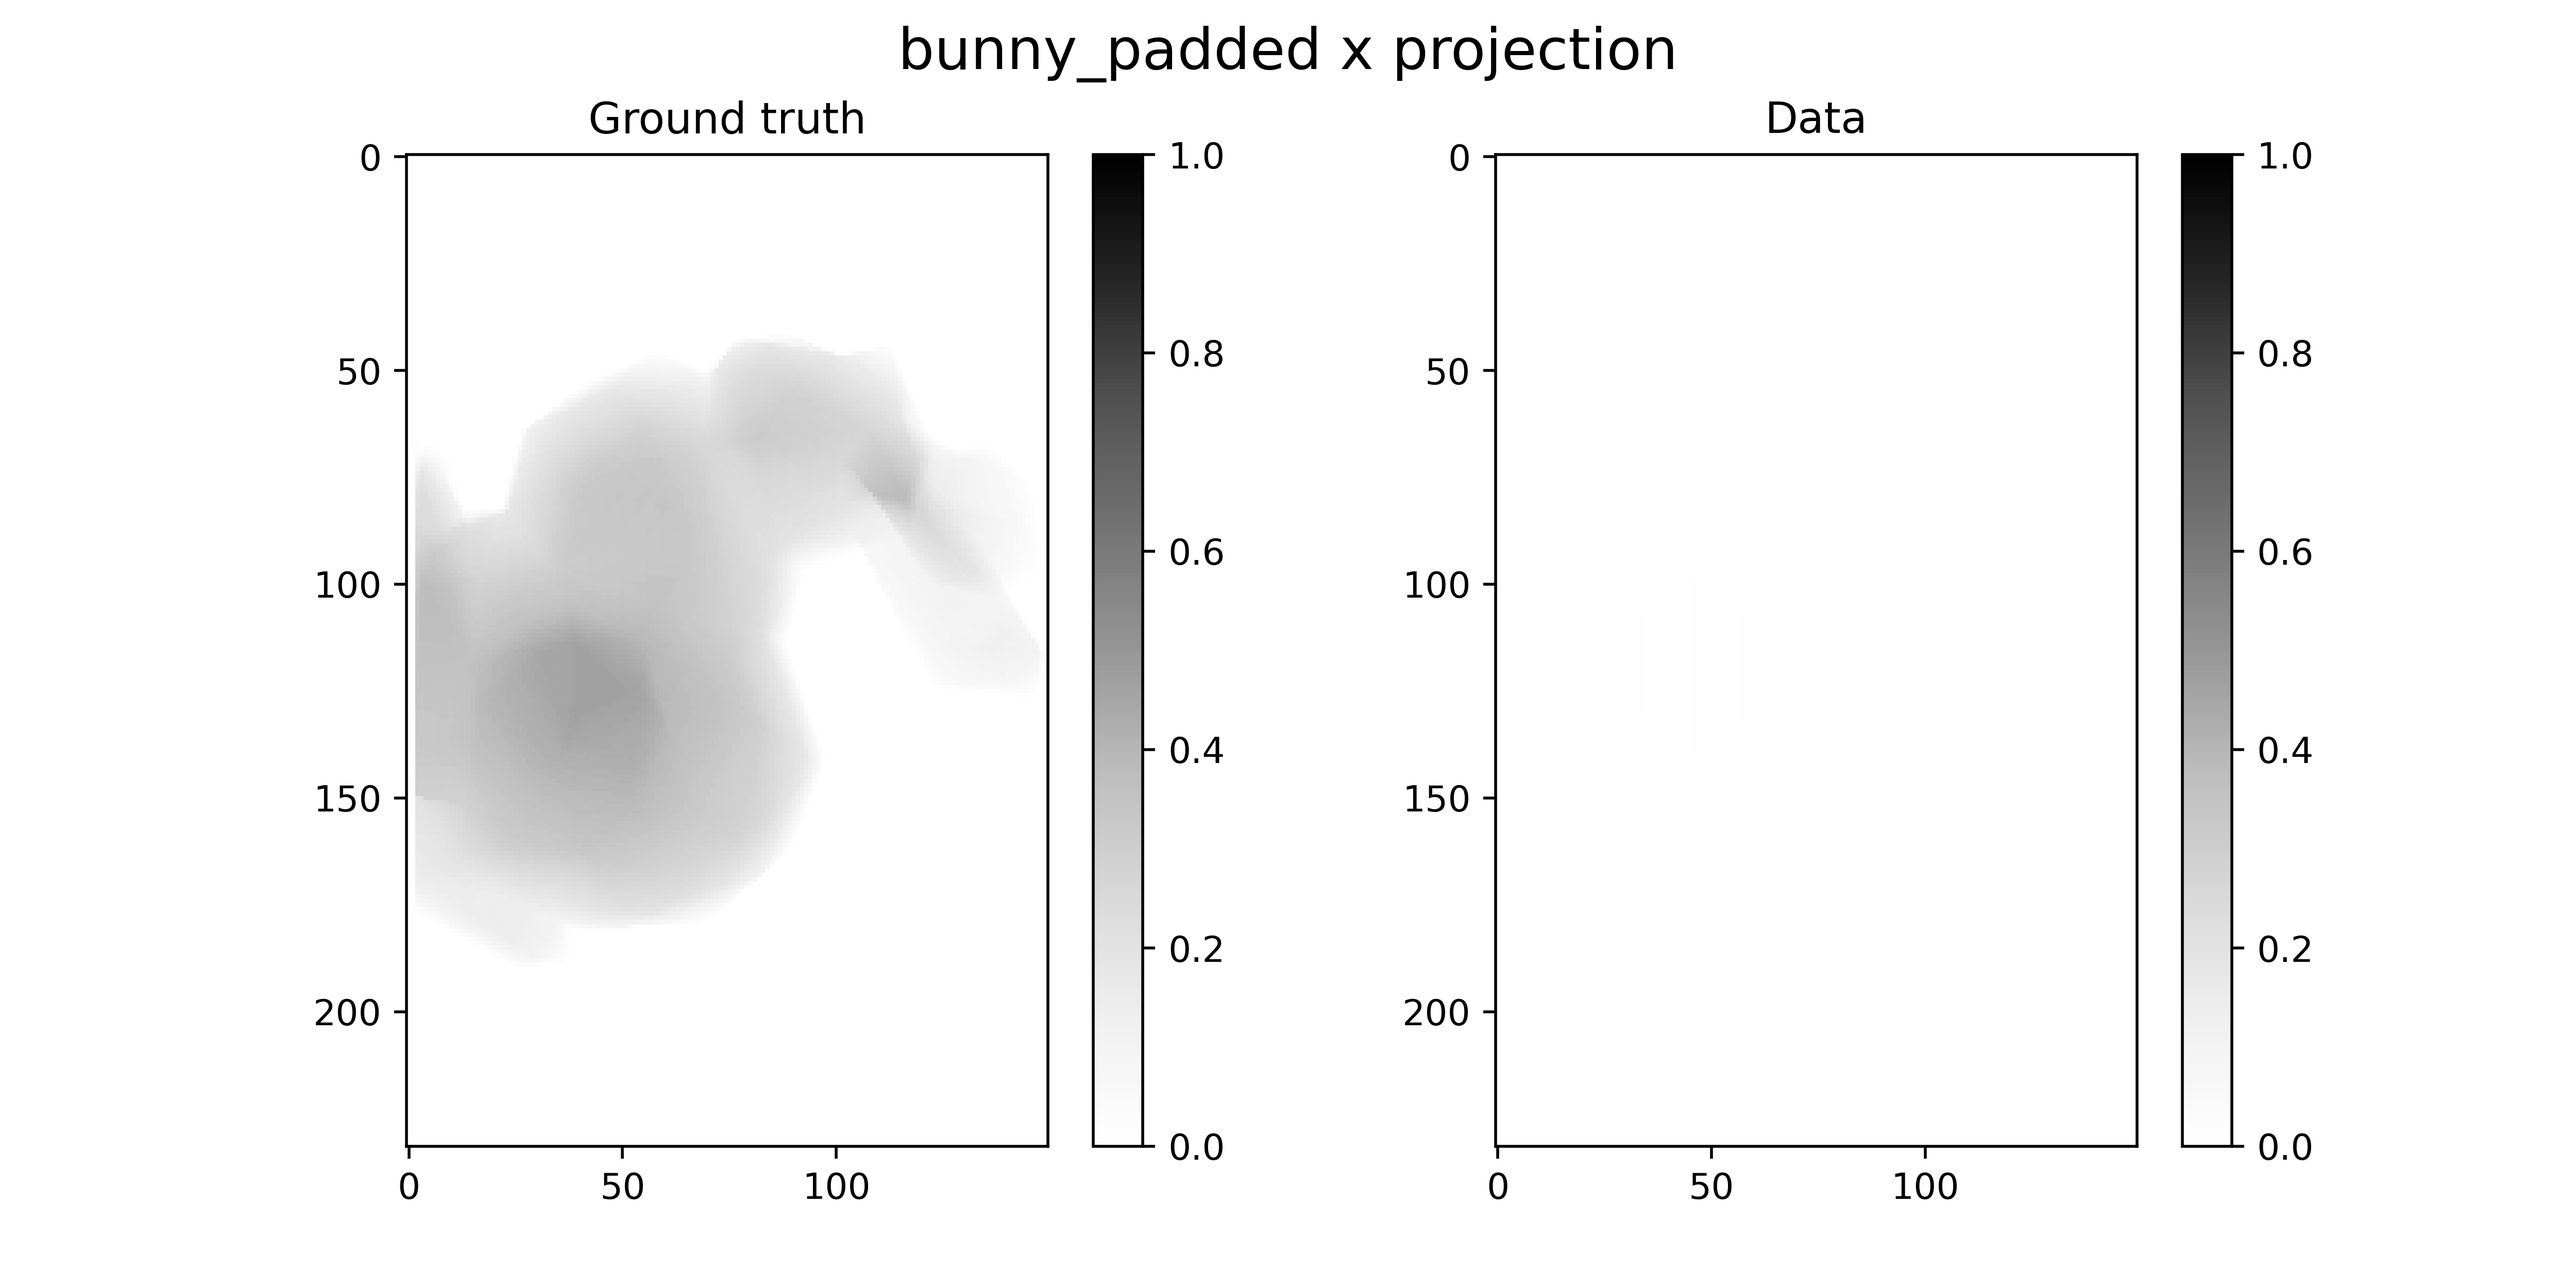
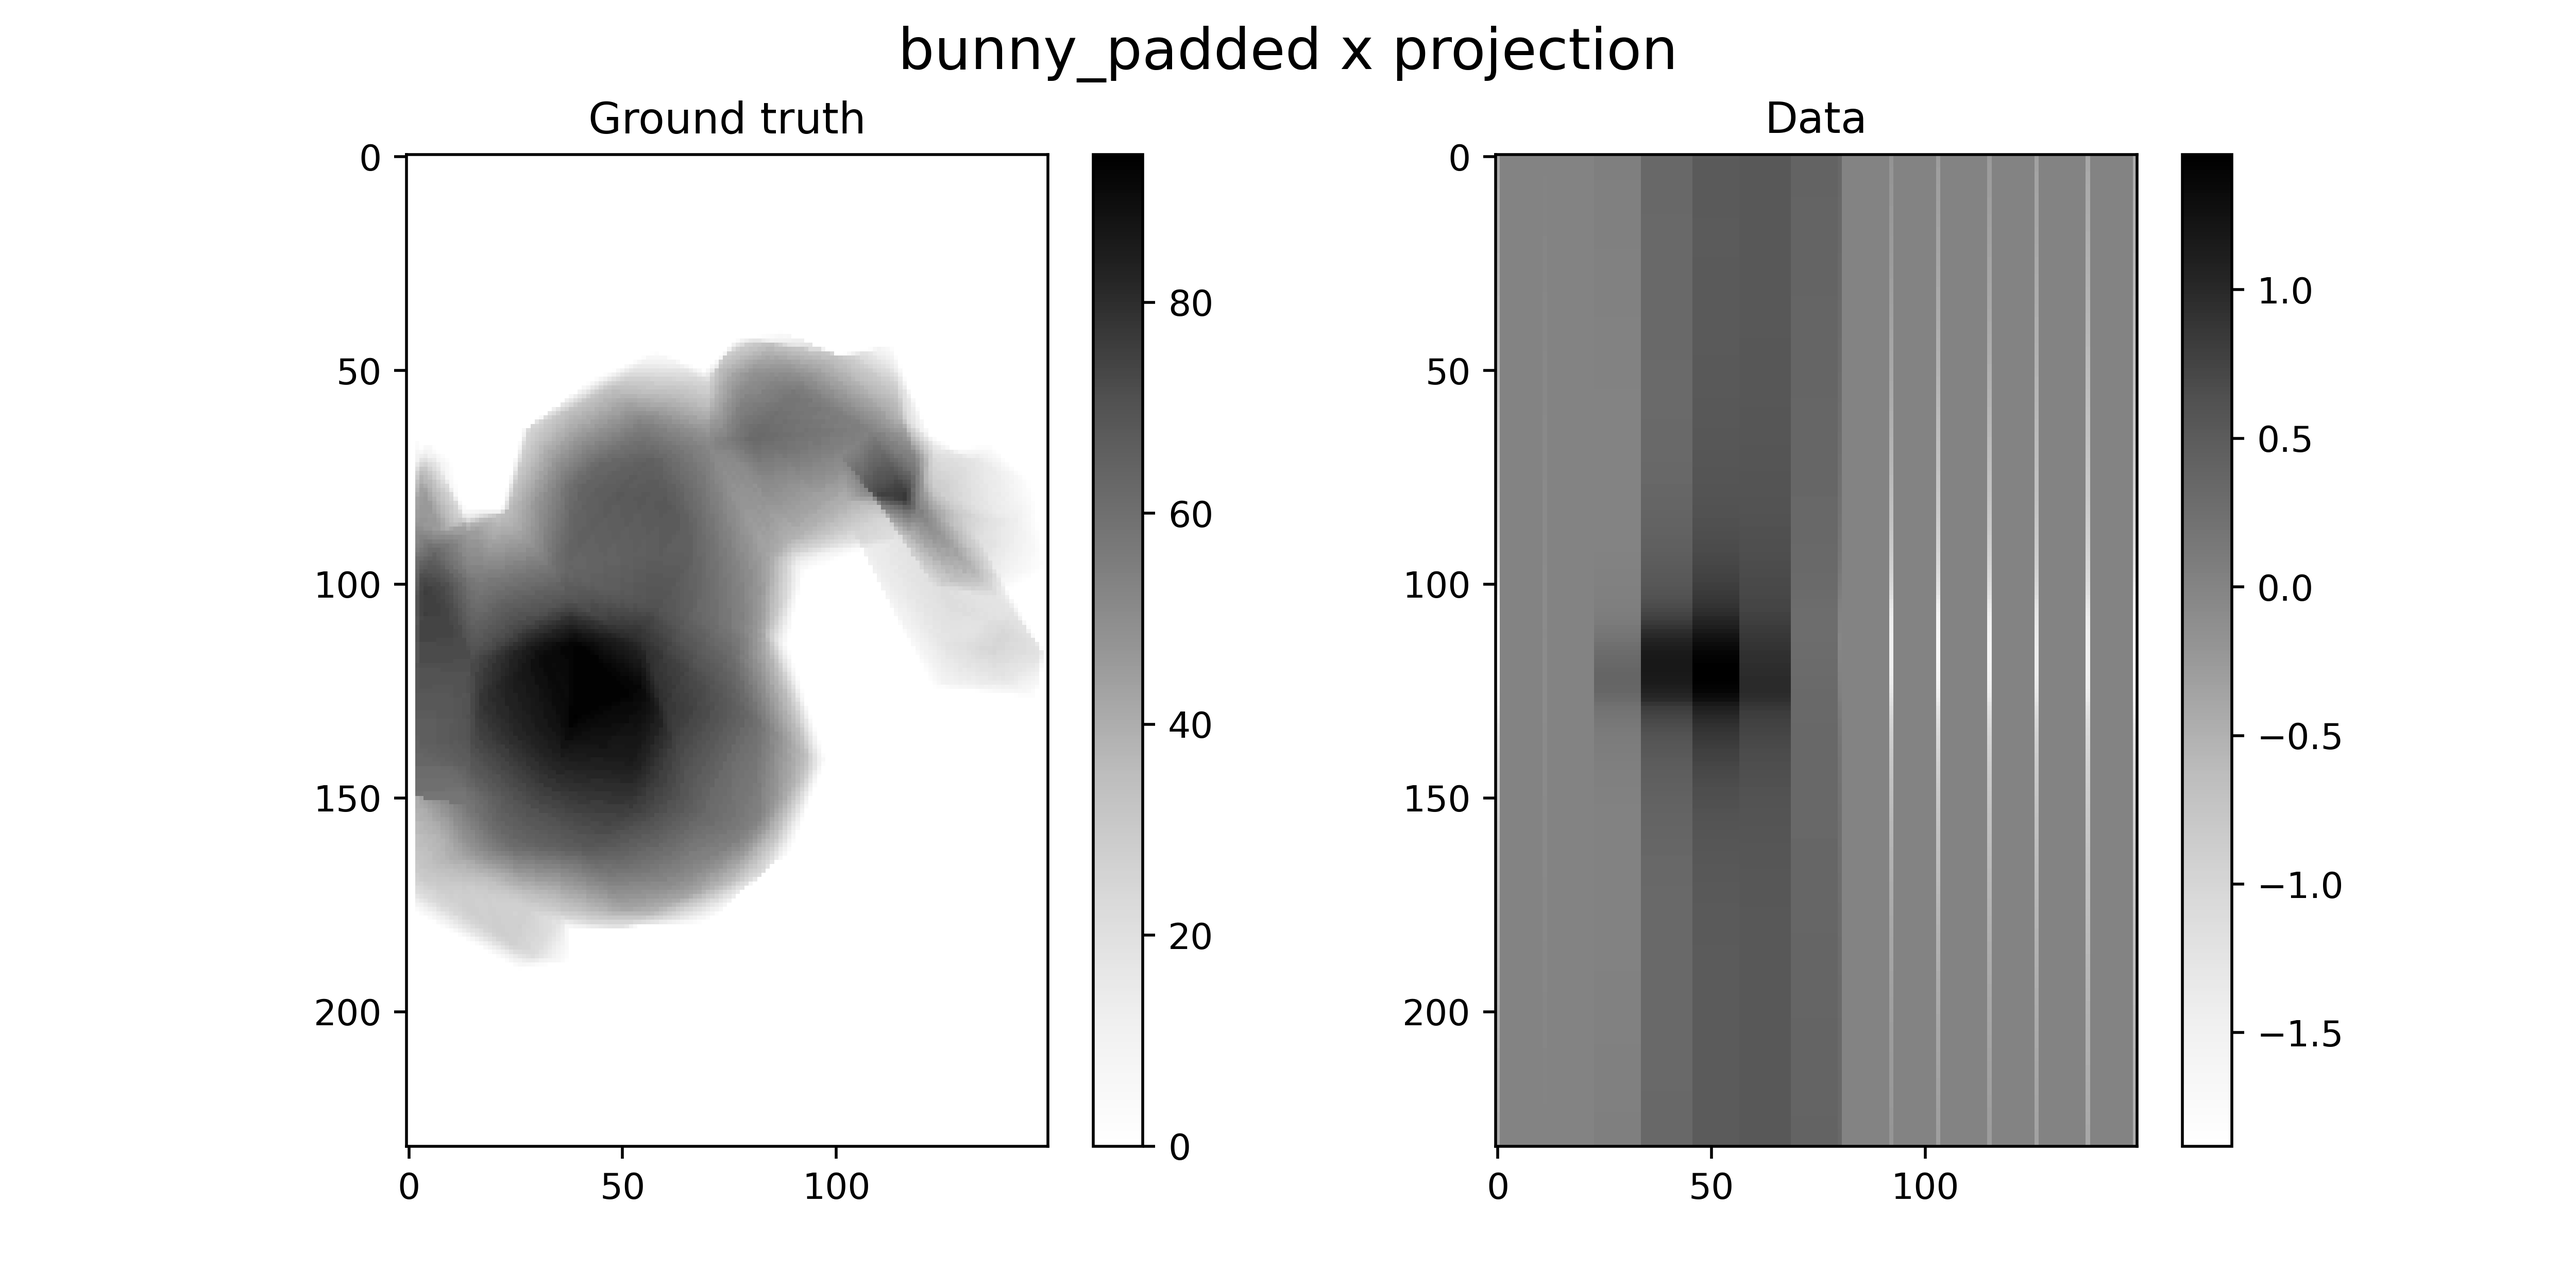
[xray] new viz

diff --git a/src/pyxu/experimental/xray/3dtests/bhatt_method/bhatt_3d.py b/src/pyxu/experimental/xray/3dtests/bhatt_method/bhatt_3d.py
@@ -21,7 +21,7 @@ dh = 0.9
 dl = 0.5
 num_n = 1500  # 3000
 bin_size = 1
-slm_pixels_height = 100  # 100
+slm_pixels_height = 50  # 100
 slm_pixels_width = 100  # 200
 lambda_ = 4
 diff_lip = 0.05
@@ -69,10 +69,10 @@ class ReconstructionTechnique:
 
     def run(self, stop_crit=RelError(eps=1e-3) | MaxIter(200), post_process_optres=None, mu1=10, mu2=10):
         alpha = self.__run_epoch(self.initialisation, mu1=mu1, mu2=mu2, stop_crit=RelError(eps=1e-3) | MaxIter(50))
-        # alpha = self.__run_epoch(alpha, mu1=mu1 / 2, mu2=mu2, stop_crit=RelError(eps=1e-3) | MaxIter(50))
-        # alpha = self.__run_epoch(alpha, mu1=mu1 / 2, mu2=mu2 / 2, stop_crit=RelError(eps=1e-3) | MaxIter(50))
-        # alpha = self.__run_epoch(alpha, mu1=mu1 / 4, mu2=mu2 / 2, stop_crit=RelError(eps=1e-5) | MaxIter(50))
-        # alpha = self.__run_epoch(alpha, mu1=mu1 / 4, mu2=mu2 / 4, stop_crit=RelError(eps=1e-5) | MaxIter(50))
+        alpha = self.__run_epoch(alpha, mu1=mu1 / 2, mu2=mu2, stop_crit=RelError(eps=1e-3) | MaxIter(50))
+        alpha = self.__run_epoch(alpha, mu1=mu1 / 2, mu2=mu2 / 2, stop_crit=RelError(eps=1e-3) | MaxIter(50))
+        alpha = self.__run_epoch(alpha, mu1=mu1 / 4, mu2=mu2 / 2, stop_crit=RelError(eps=1e-5) | MaxIter(50))
+        alpha = self.__run_epoch(alpha, mu1=mu1 / 4, mu2=mu2 / 4, stop_crit=RelError(eps=1e-5) | MaxIter(50))
         # alpha = self.__run_epoch(alpha, mu1=mu1 / 8, mu2=mu2 / 4, stop_crit=RelError(eps=5e-6) | MaxIter(50))
         # alpha = self.__run_epoch(alpha, mu1=mu1 / 8, mu2=mu2 / 8, stop_crit=RelError(eps=5e-6) | MaxIter(50))
 
@@ -130,6 +130,7 @@ print("Loading ground truth...")
 ground_truth = bunny_padded()
 chosen_gt = "bunny_padded"
 refraction = False
+optimize_save = False
 
 cylinder_inner_radius = 15.5e-3
 cylinder_outer_radius = 16.5e-3
@@ -212,6 +213,14 @@ bhatt = ReconstructionTechnique(
 )
 
 
+def threshold_processing_2_colors(image):
+    thresh = (dh + dl) / 2
+    res = image.copy()
+    res[image < thresh] = 0
+    res[image >= thresh] = 1
+    return res
+
+
 def threshold_processing_3_colors(image):
     res = image.copy()
     res[image < dl] = 0
@@ -268,35 +277,76 @@ def show_projection_against_gt(ax, data, ground_truth, main_title, file_title, p
     plt.close(fig)
 
 
+def zero_order_interp(img: np.ndarray, epsilon=1e-6):
+    output = img.copy()
+    nonzero_planes = np.argwhere(img.sum(axis=(0, 1)) > epsilon).flatten()
+    nonzero_length = len(nonzero_planes) - 1
+    idx = 0
+    while idx < nonzero_length:
+        z = nonzero_planes[idx]
+        z_plus_1 = nonzero_planes[idx + 1]
+        output[:, :, z:z_plus_1] = output[:, :, z, np.newaxis]
+        idx += 1
+
+    return output, nonzero_planes
+
+
 def run():
     save_file = f"alphas/alpha_{chosen_gt}.zarr"
-    alpha, img = bhatt.run()
-    zarr.save(save_file, alpha)
+    if optimize_save:
+        alpha, img = bhatt.run()
+        zarr.save(save_file, alpha)
+    else:
+        alpha = zarr.load(save_file)
+        img = bhatt.op.adjoint(alpha)
 
-    show_projection_against_gt(0, img, ground_truth, f"{chosen_gt} x projection", f"results/{chosen_gt}_x_prog.png")
+    img, nonzero_planes = zero_order_interp(img)
+
     show_projection_against_gt(
-        0, img, ground_truth, f"{chosen_gt} x projection", f"results/{chosen_gt}_x_prog_bin.png", normalize=False
+        0, img, ground_truth, f"{chosen_gt} x projection", f"results/{chosen_gt}_x_prog_normalized.png"
+    )
+    show_projection_against_gt(
+        0, img, ground_truth, f"{chosen_gt} x projection", f"results/{chosen_gt}_x_prog.png", normalize=False
     )
 
-    show_projection_against_gt(1, img, ground_truth, f"{chosen_gt} y projection", f"results/{chosen_gt}_y_prog.png")
     show_projection_against_gt(
-        1, img, ground_truth, f"{chosen_gt} y projection", f"results/{chosen_gt}_y_prog_bin.png", normalize=False
+        1, img, ground_truth, f"{chosen_gt} y projection", f"results/{chosen_gt}_y_prog_normalized.png"
+    )
+    show_projection_against_gt(
+        1, img, ground_truth, f"{chosen_gt} y projection", f"results/{chosen_gt}_y_prog.png", normalize=False
     )
 
-    show_projection_against_gt(2, img, ground_truth, f"{chosen_gt} z projection", f"results/{chosen_gt}_z_prog.png")
     show_projection_against_gt(
-        2, img, ground_truth, f"{chosen_gt} z projection", f"results/{chosen_gt}_z_prog_bin.png", normalize=False
+        2, img, ground_truth, f"{chosen_gt} z projection", f"results/{chosen_gt}_z_prog_normalized.png"
+    )
+    show_projection_against_gt(
+        2, img, ground_truth, f"{chosen_gt} z projection", f"results/{chosen_gt}_z_prog.png", normalize=False
     )
 
-    low_index = int(np.ceil(img.shape[-1] * 0.25))
-    high_index = int(np.floor(img.shape[-1] * 0.75))
+    low_index = nonzero_planes[int(np.ceil(nonzero_planes.shape[-1] * 0.25))]
+    high_index = nonzero_planes[int(np.floor(nonzero_planes.shape[-1] * 0.75))]
 
     plot_four_images(
         [ground_truth[:, :, low_index], img[:, :, low_index], ground_truth[:, :, high_index], img[:, :, high_index]],
         subtitles=["Low GT", "Low data", "High GT", "High data"],
         main_title=f"{chosen_gt} slices",
-        file_title=f"results/{chosen_gt}_slices.png",
+        file_title=f"results/{chosen_gt}_slices_3col.png",
         processing=[lambda x: x, threshold_processing_3_colors, lambda x: x, threshold_processing_3_colors],
+    )
+
+    plot_four_images(
+        [ground_truth[:, :, low_index], img[:, :, low_index], ground_truth[:, :, high_index], img[:, :, high_index]],
+        subtitles=["Low GT", "Low data", "High GT", "High data"],
+        main_title=f"{chosen_gt} slices",
+        file_title=f"results/{chosen_gt}_slices_2col.png",
+        processing=[lambda x: x, threshold_processing_2_colors, lambda x: x, threshold_processing_2_colors],
+    )
+
+    plot_four_images(
+        [ground_truth[:, :, low_index], img[:, :, low_index], ground_truth[:, :, high_index], img[:, :, high_index]],
+        subtitles=["Low GT", "Low data", "High GT", "High data"],
+        main_title=f"{chosen_gt} slices",
+        file_title=f"results/{chosen_gt}_slices_energy.png",
     )
 
 

diff --git a/src/pyxu/experimental/xray/3dtests/bhatt_method_weighted/bhatt_3d_weighted.py b/src/pyxu/experimental/xray/3dtests/bhatt_method_weighted/bhatt_3d_weighted.py
@@ -21,7 +21,7 @@ dh = 0.9
 dl = 0.5
 num_n = 1500  # 3000
 bin_size = 1
-slm_pixels_height = 20  # 100
+slm_pixels_height = 50  # 100
 slm_pixels_width = 100  # 200
 lambda_ = 0.4
 diff_lip = 0.5
@@ -73,10 +73,10 @@ class ReconstructionTechnique:
 
     def run(self, stop_crit=RelError(eps=1e-3) | MaxIter(200), post_process_optres=None, mu1=10, mu2=10):
         alpha = self.__run_epoch(self.initialisation, mu1=mu1, mu2=mu2, stop_crit=RelError(eps=1e-3) | MaxIter(50))
-        # alpha = self.__run_epoch(alpha, mu1=mu1 / 2, mu2=mu2, stop_crit=RelError(eps=1e-3) | MaxIter(50))
-        # alpha = self.__run_epoch(alpha, mu1=mu1 / 2, mu2=mu2 / 2, stop_crit=RelError(eps=1e-3) | MaxIter(50))
-        # alpha = self.__run_epoch(alpha, mu1=mu1 / 4, mu2=mu2 / 2, stop_crit=RelError(eps=1e-5) | MaxIter(50))
-        # alpha = self.__run_epoch(alpha, mu1=mu1 / 4, mu2=mu2 / 4, stop_crit=RelError(eps=1e-5) | MaxIter(50))
+        alpha = self.__run_epoch(alpha, mu1=mu1 / 2, mu2=mu2, stop_crit=RelError(eps=1e-3) | MaxIter(50))
+        alpha = self.__run_epoch(alpha, mu1=mu1 / 2, mu2=mu2 / 2, stop_crit=RelError(eps=1e-3) | MaxIter(50))
+        alpha = self.__run_epoch(alpha, mu1=mu1 / 4, mu2=mu2 / 2, stop_crit=RelError(eps=1e-5) | MaxIter(50))
+        alpha = self.__run_epoch(alpha, mu1=mu1 / 4, mu2=mu2 / 4, stop_crit=RelError(eps=1e-5) | MaxIter(50))
         # alpha = self.__run_epoch(alpha, mu1=mu1 / 8, mu2=mu2 / 4, stop_crit=RelError(eps=5e-6) | MaxIter(50))
         # alpha = self.__run_epoch(alpha, mu1=mu1 / 8, mu2=mu2 / 8, stop_crit=RelError(eps=5e-6) | MaxIter(50))
 
@@ -134,6 +134,7 @@ print("Loading ground truth...")
 ground_truth = bunny_padded()
 chosen_gt = "bunny_padded"
 refraction = False
+optimize_save = False
 
 cylinder_inner_radius = 15.5e-3
 cylinder_outer_radius = 16.5e-3
@@ -216,6 +217,14 @@ bhatt = ReconstructionTechnique(
 )
 
 
+def threshold_processing_2_colors(image):
+    thresh = (dh + dl) / 2
+    res = image.copy()
+    res[image < thresh] = 0
+    res[image >= thresh] = 1
+    return res
+
+
 def threshold_processing_3_colors(image):
     res = image.copy()
     res[image < dl] = 0
@@ -272,35 +281,76 @@ def show_projection_against_gt(ax, data, ground_truth, main_title, file_title, p
     plt.close(fig)
 
 
+def zero_order_interp(img: np.ndarray, epsilon=1e-6):
+    output = img.copy()
+    nonzero_planes = np.argwhere(img.sum(axis=(0, 1)) > epsilon).flatten()
+    nonzero_length = len(nonzero_planes) - 1
+    idx = 0
+    while idx < nonzero_length:
+        z = nonzero_planes[idx]
+        z_plus_1 = nonzero_planes[idx + 1]
+        output[:, :, z:z_plus_1] = output[:, :, z, np.newaxis]
+        idx += 1
+
+    return output, nonzero_planes
+
+
 def run():
     save_file = f"alphas/alpha_{chosen_gt}.zarr"
-    alpha, img = bhatt.run()
-    zarr.save(save_file, alpha)
+    if optimize_save:
+        alpha, img = bhatt.run()
+        zarr.save(save_file, alpha)
+    else:
+        alpha = zarr.load(save_file)
+        img = bhatt.op.adjoint(alpha)
 
-    show_projection_against_gt(0, img, ground_truth, f"{chosen_gt} x projection", f"results/{chosen_gt}_x_prog.png")
+    img, nonzero_planes = zero_order_interp(img)
+
     show_projection_against_gt(
-        0, img, ground_truth, f"{chosen_gt} x projection", f"results/{chosen_gt}_x_prog_bin.png", normalize=False
+        0, img, ground_truth, f"{chosen_gt} x projection", f"results/{chosen_gt}_x_prog_normalized.png"
+    )
+    show_projection_against_gt(
+        0, img, ground_truth, f"{chosen_gt} x projection", f"results/{chosen_gt}_x_prog.png", normalize=False
     )
 
-    show_projection_against_gt(1, img, ground_truth, f"{chosen_gt} y projection", f"results/{chosen_gt}_y_prog.png")
     show_projection_against_gt(
-        1, img, ground_truth, f"{chosen_gt} y projection", f"results/{chosen_gt}_y_prog_bin.png", normalize=False
+        1, img, ground_truth, f"{chosen_gt} y projection", f"results/{chosen_gt}_y_prog_normalized.png"
+    )
+    show_projection_against_gt(
+        1, img, ground_truth, f"{chosen_gt} y projection", f"results/{chosen_gt}_y_prog.png", normalize=False
     )
 
-    show_projection_against_gt(2, img, ground_truth, f"{chosen_gt} z projection", f"results/{chosen_gt}_z_prog.png")
     show_projection_against_gt(
-        2, img, ground_truth, f"{chosen_gt} z projection", f"results/{chosen_gt}_z_prog_bin.png", normalize=False
+        2, img, ground_truth, f"{chosen_gt} z projection", f"results/{chosen_gt}_z_prog_normalized.png"
+    )
+    show_projection_against_gt(
+        2, img, ground_truth, f"{chosen_gt} z projection", f"results/{chosen_gt}_z_prog.png", normalize=False
     )
 
-    low_index = int(np.ceil(img.shape[-1] * 0.25))
-    high_index = int(np.floor(img.shape[-1] * 0.75))
+    low_index = nonzero_planes[int(np.ceil(nonzero_planes.shape[-1] * 0.25))]
+    high_index = nonzero_planes[int(np.floor(nonzero_planes.shape[-1] * 0.75))]
 
     plot_four_images(
         [ground_truth[:, :, low_index], img[:, :, low_index], ground_truth[:, :, high_index], img[:, :, high_index]],
         subtitles=["Low GT", "Low data", "High GT", "High data"],
         main_title=f"{chosen_gt} slices",
-        file_title=f"results/{chosen_gt}_slices.png",
+        file_title=f"results/{chosen_gt}_slices_3col.png",
         processing=[lambda x: x, threshold_processing_3_colors, lambda x: x, threshold_processing_3_colors],
+    )
+
+    plot_four_images(
+        [ground_truth[:, :, low_index], img[:, :, low_index], ground_truth[:, :, high_index], img[:, :, high_index]],
+        subtitles=["Low GT", "Low data", "High GT", "High data"],
+        main_title=f"{chosen_gt} slices",
+        file_title=f"results/{chosen_gt}_slices_2col.png",
+        processing=[lambda x: x, threshold_processing_2_colors, lambda x: x, threshold_processing_2_colors],
+    )
+
+    plot_four_images(
+        [ground_truth[:, :, low_index], img[:, :, low_index], ground_truth[:, :, high_index], img[:, :, high_index]],
+        subtitles=["Low GT", "Low data", "High GT", "High data"],
+        main_title=f"{chosen_gt} slices",
+        file_title=f"results/{chosen_gt}_slices_energy.png",
     )
 
 
